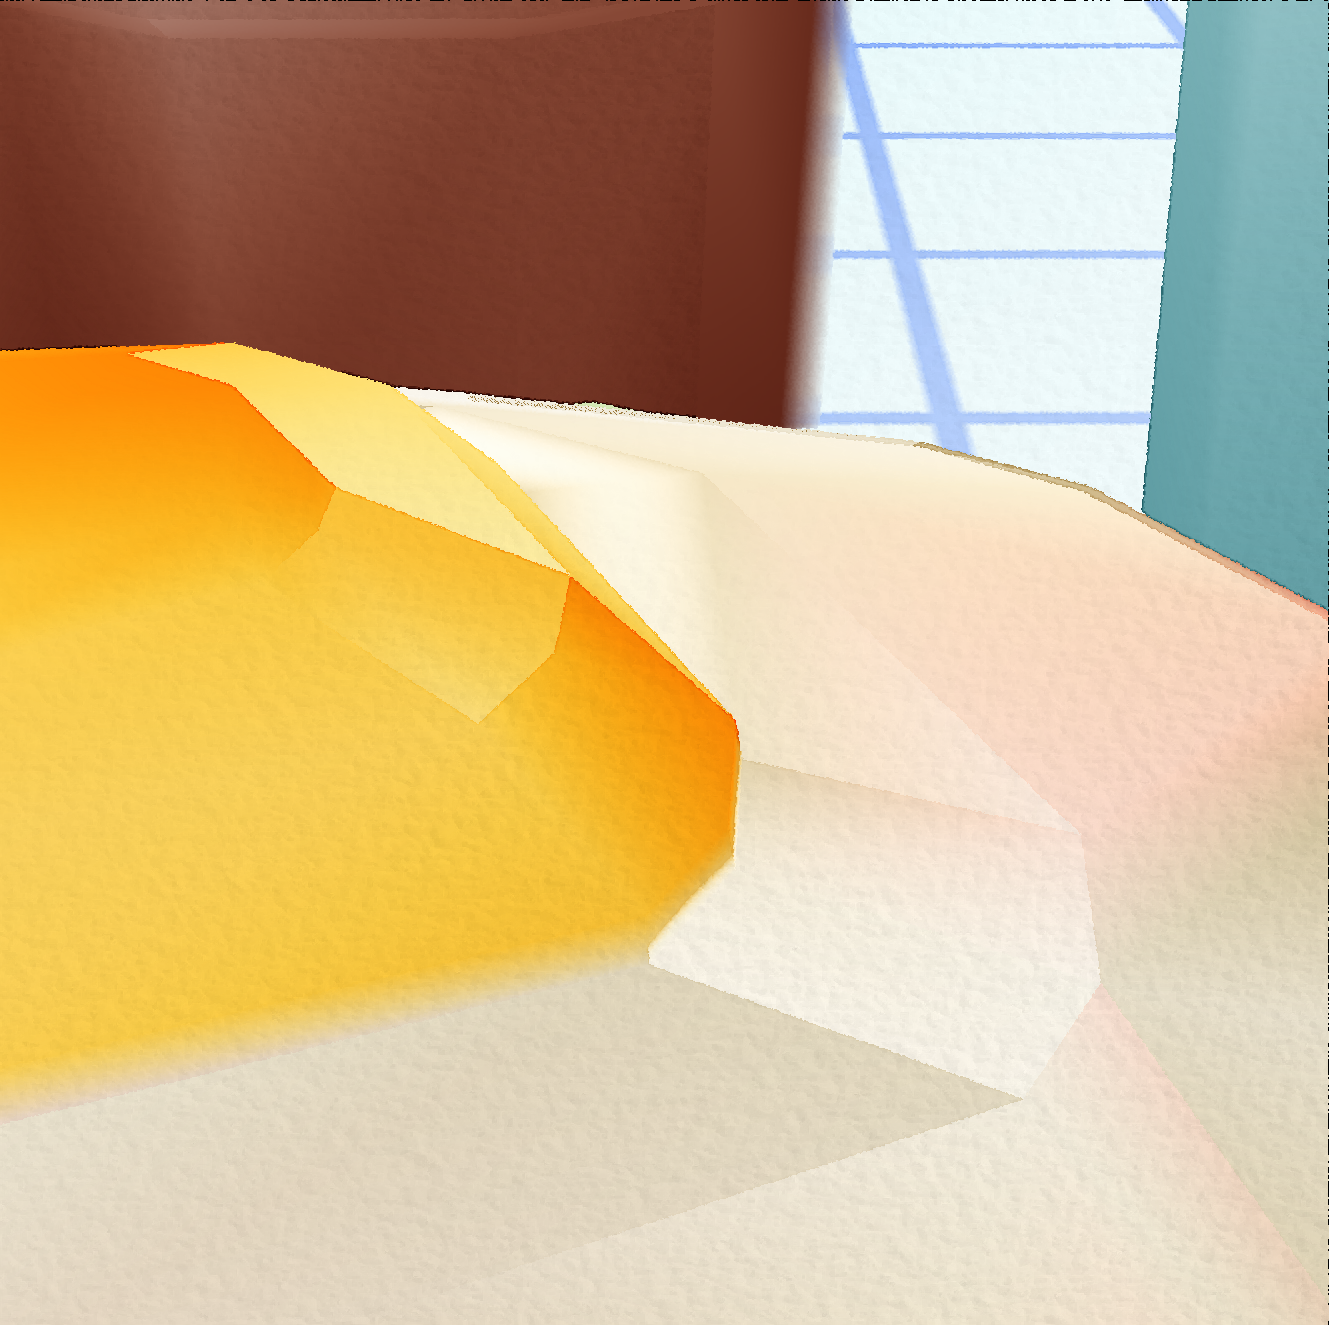
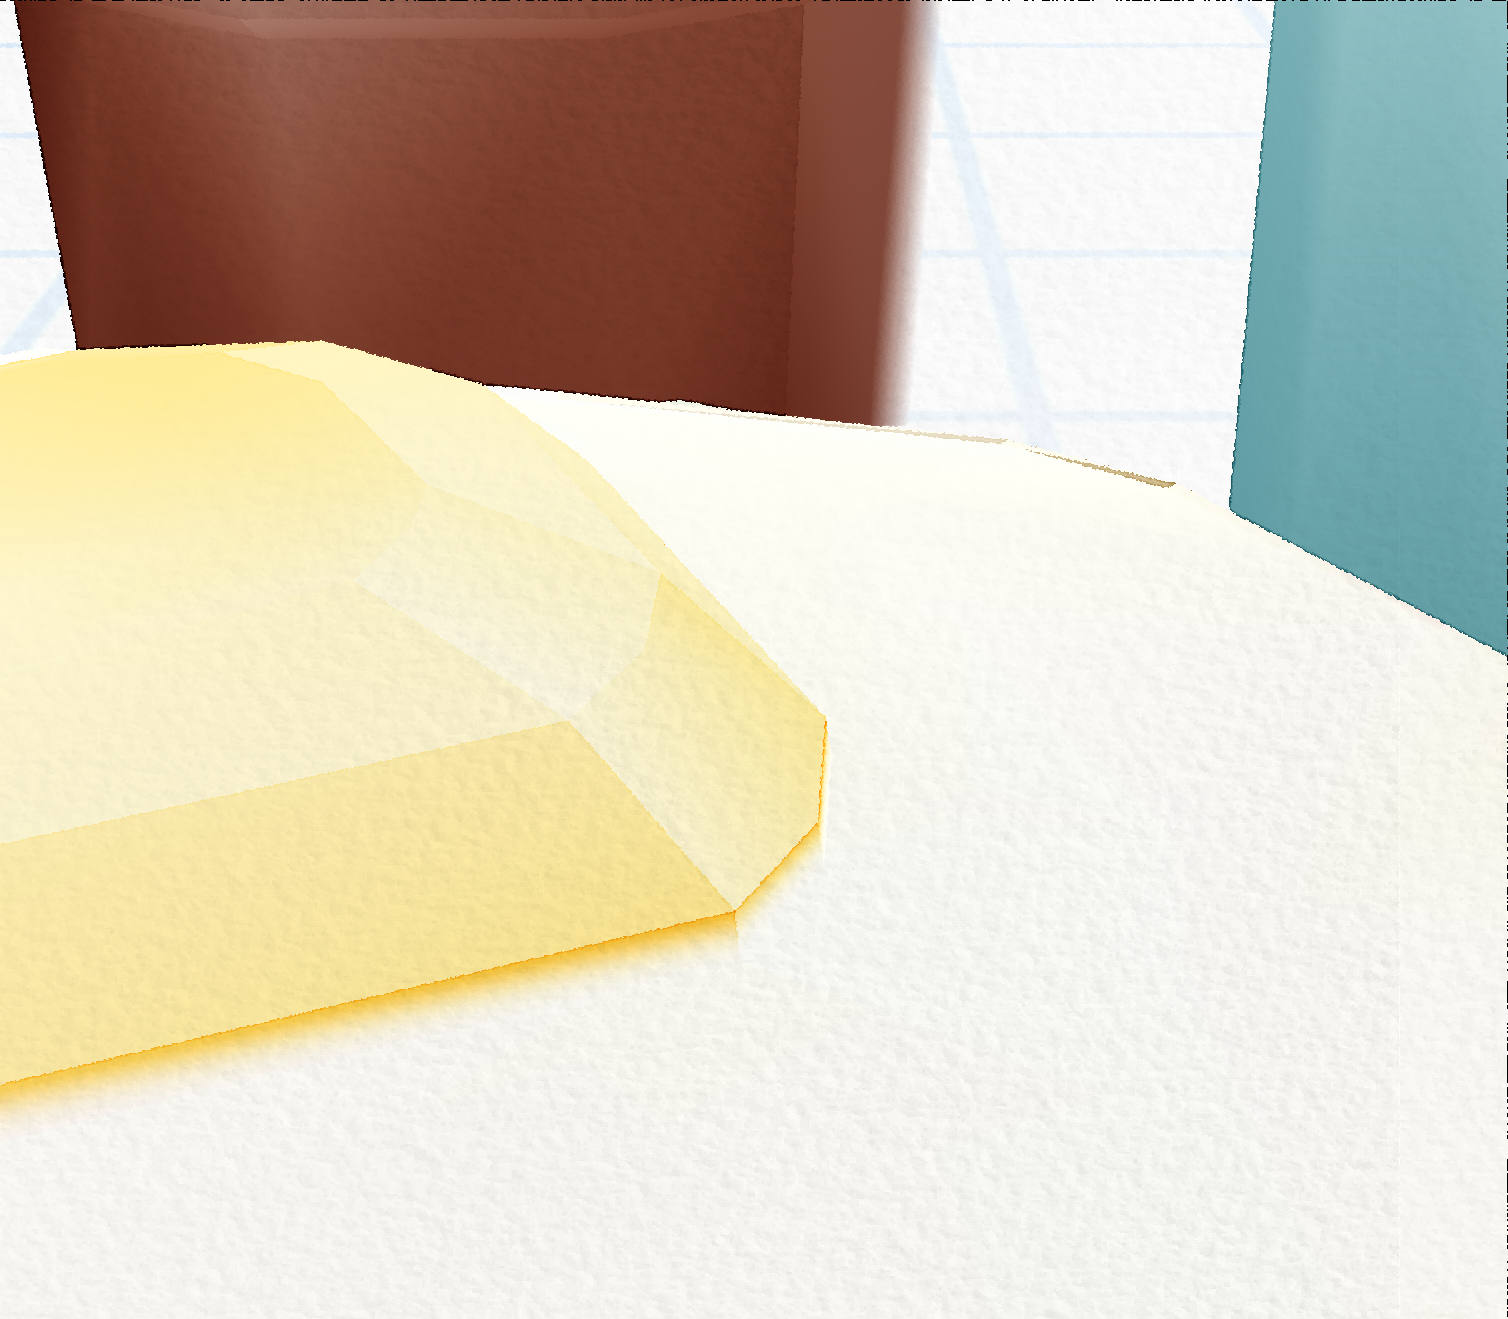
fixed a bug with write_png

diff --git a/GameMode.cpp b/GameMode.cpp
@@ -27,6 +27,7 @@
 #include <cstddef>
 #include <random>
 #include <png.h>
+#include <algorithm>
 
 #ifndef TWEAK_ENABLE
 #error "http-tweak not enabled"
@@ -321,15 +322,15 @@ void GameMode::write_png(const char *filename){
     png_write_info(png, info);
 
     glBindTexture(GL_TEXTURE_2D, screen_tex);
-    GLuint *pixels = new GLuint[width*height*4];
-    glGetTexImage(GL_TEXTURE_2D, 0, GL_RGBA, GL_UNSIGNED_INT, pixels);
+    std::vector<GLfloat> pixels(width*height*4, 0.0f);
+    glGetTexImage(GL_TEXTURE_2D, 0, GL_RGBA, GL_FLOAT, pixels.data());
     png_bytep row = (png_bytep)malloc(sizeof(png_byte)*width*4);
     for(int y = height-1; y >= 0; y--) {
         for(int x = 0; x<width; x++){
-            row[x*4] = pixels[(x+y*width)*4];
-            row[x*4+1] = pixels[(x+y*width)*4+1];
-            row[x*4+2] = pixels[(x+y*width)*4+2];
-            row[x*4+3] = 255; //pixels[(x+y*width)*4+3];
+            row[x*4] = glm::clamp(int32_t(pixels[(x+y*width)*4]*255), 0, 255);
+            row[x*4+1] = glm::clamp(int32_t(pixels[(x+y*width)*4+1]*255), 0, 255);
+            row[x*4+2] = glm::clamp(int32_t(pixels[(x+y*width)*4+2]*255), 0, 255);
+            row[x*4+3] = glm::clamp(int32_t(pixels[(x+y*width)*4+3]*255), 0, 255);
         }
         png_write_row(png, row);
     }
